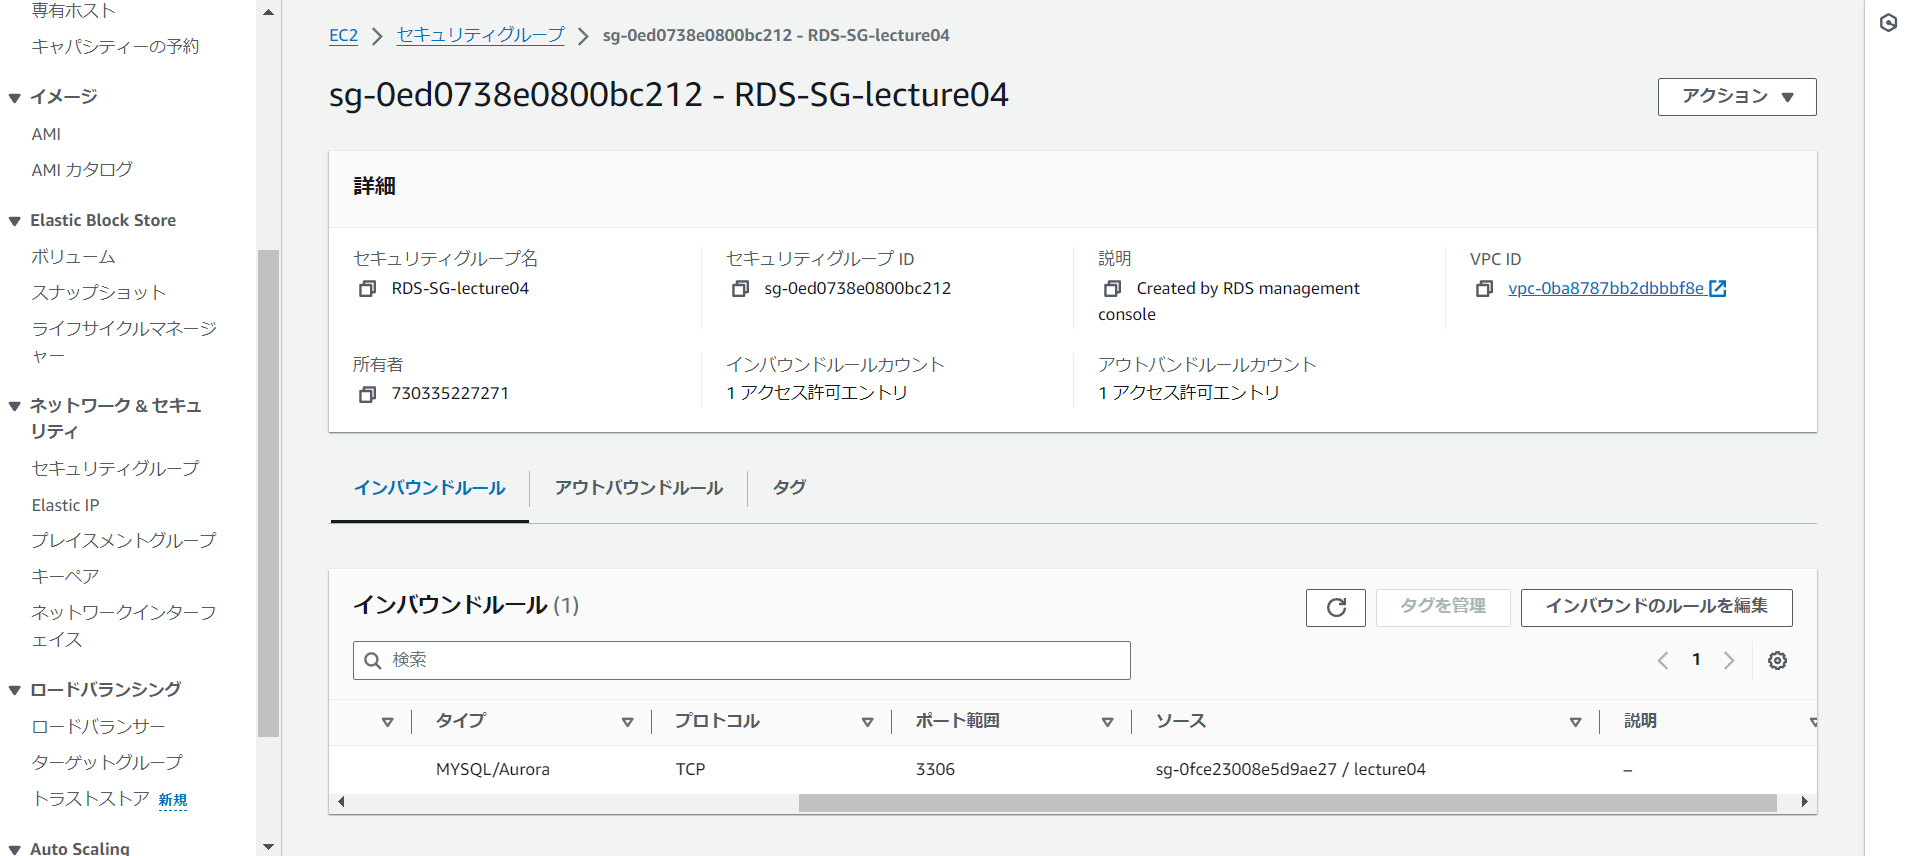
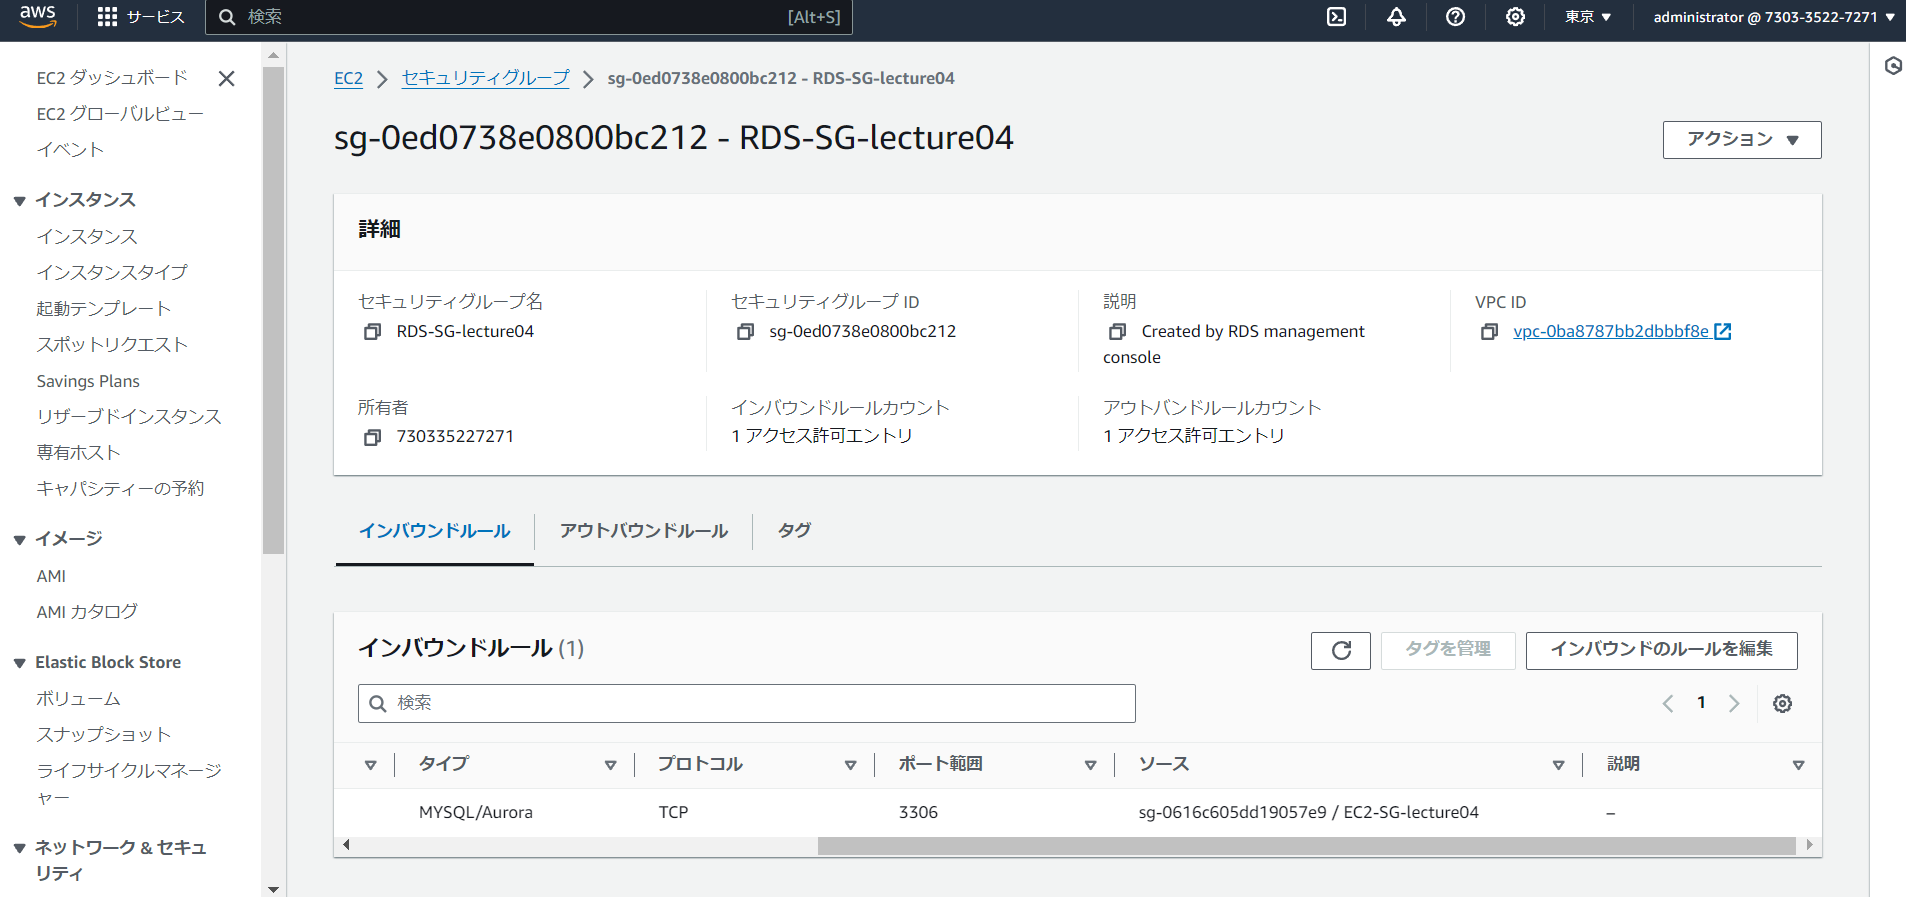
lecture04.md

diff --git a/lecture04.md b/lecture04.md
@@ -10,7 +10,7 @@
 ![EC2](images/lecture04/EC2.png)
 
 * セキュリティグループの作成
-![EC2-lecture04](images/lecture04/EC2-lecture04.png)
+![EC2-lecture04](images/lecture04/EC2-SG-lecture04.png)
 
 2. RDS
 * RDSの作成
